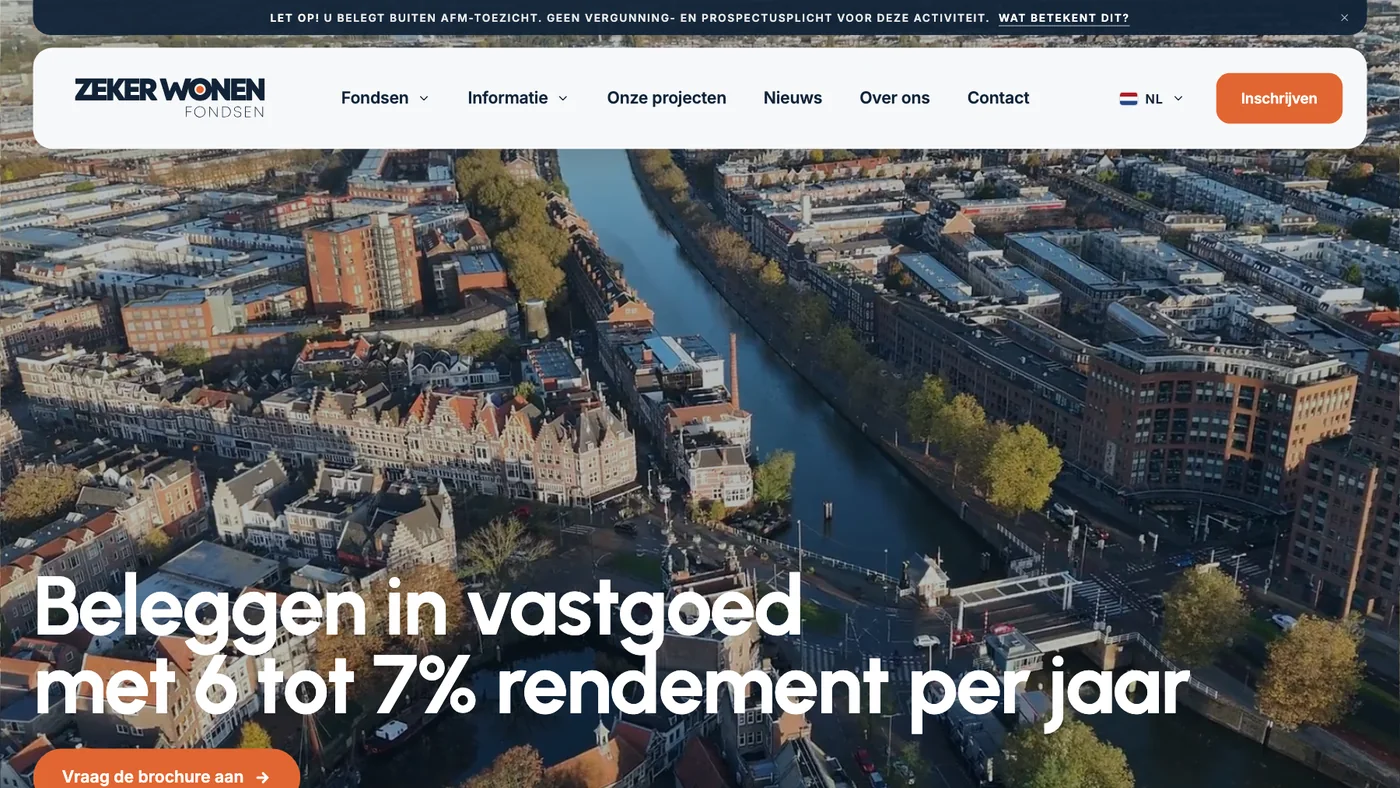
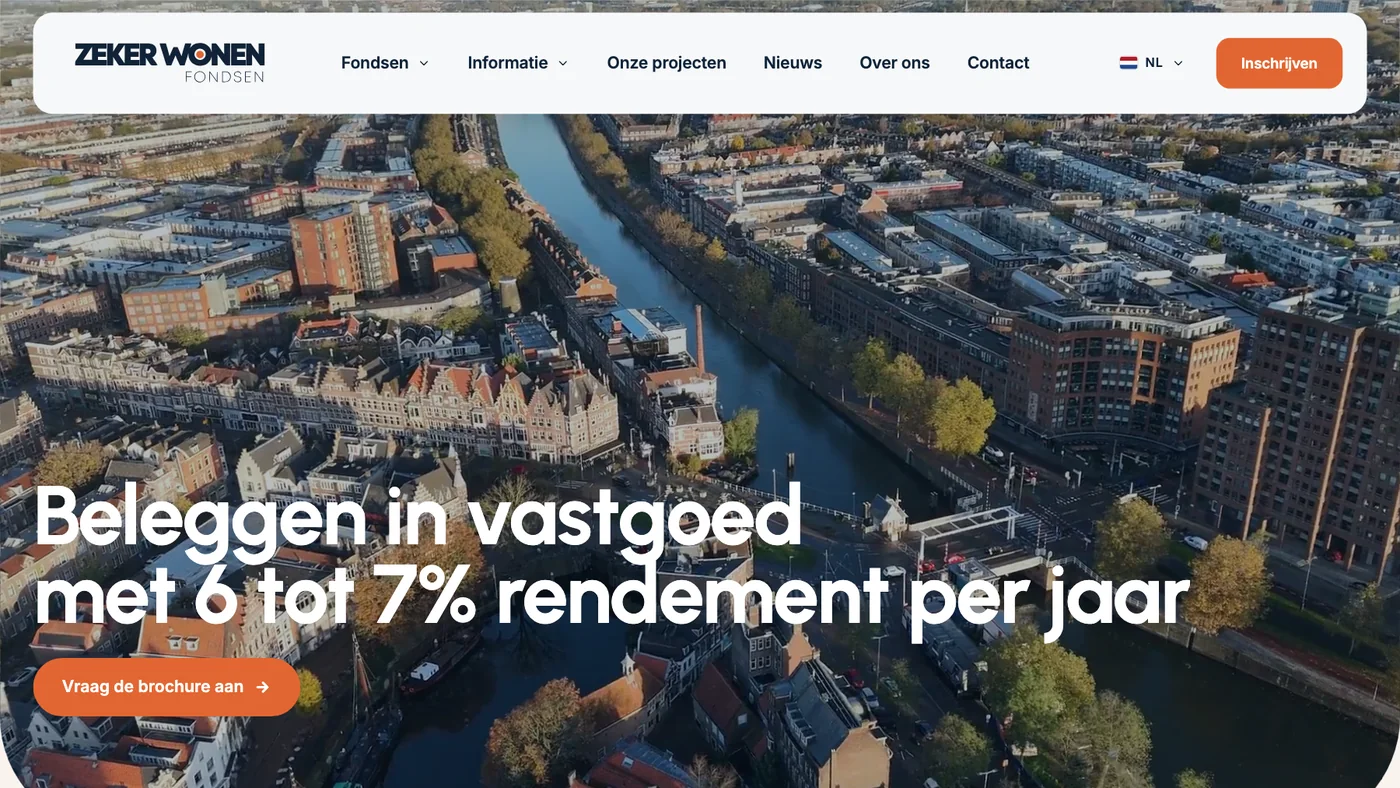
fix: CS-pijl in de stijl van hun site en Zeker Wonen-beeld netter

diff --git a/css/styles.css b/css/styles.css
@@ -608,11 +608,10 @@ html.reveal-fallback .fade-in-up { opacity: 1 !important; transform: none !impor
 .hero__actie .hero__btn { margin: 0; }
 .hero__dienst { font-family: var(--font-display); font-size: 18px; line-height: 1; color: rgba(255,255,255,0.88); }
 
-/* Portfolio: de pijl uit de CS Cleaning-hero komt over de rand van het beeld heen */
-.pcard__pijl { position: absolute; left: 50%; bottom: 0; z-index: 2; width: 46px; height: 46px; border-radius: 999px; display: grid; place-items: center; color: var(--white);
-  background: linear-gradient(160deg, #34b77e 0%, #1c9e67 52%, #0f7f4f 100%); border: 3px solid var(--white);
-  box-shadow: inset 0 1px 1px rgba(255,255,255,0.45), inset 0 -2px 4px rgba(6,70,44,0.28), 0 2px 4px rgba(4,14,31,0.16), 0 10px 22px rgba(8,80,50,0.26);
-  transform: translate(-50%, 50%); transition: transform 0.3s ease, box-shadow 0.3s ease; }
-.pcard__pijl svg { width: 19px; height: 19px; filter: drop-shadow(0 1px 1px rgba(6,70,44,0.35)); }
-.pcard:hover .pcard__pijl { transform: translate(-50%, calc(50% + 3px)); box-shadow: inset 0 1px 1px rgba(255,255,255,0.45), inset 0 -2px 4px rgba(6,70,44,0.28), 0 3px 6px rgba(4,14,31,0.18), 0 14px 26px rgba(8,80,50,0.3); }
+/* Portfolio: de pijl uit de CS Cleaning-hero, zelfde knop als op hun site, komt over de rand van het beeld heen */
+.pcard__pijl { position: absolute; left: 50%; bottom: 0; z-index: 2; width: 52px; height: 52px; border-radius: 50%; display: grid; place-items: center; color: var(--white);
+  background: radial-gradient(circle, #1f9d68 0, #1f9d68 58%, #096a41 60%); outline: 3px solid var(--white);
+  box-shadow: 0 8px 18px rgba(4,14,31,0.16); transform: translate(-50%, 50%); transition: transform 0.3s ease, box-shadow 0.3s ease; }
+.pcard__pijl svg { width: 18px; height: 18px; }
+.pcard:hover .pcard__pijl { transform: translate(-50%, calc(50% + 3px)); box-shadow: 0 12px 22px rgba(4,14,31,0.2); }
 @media (prefers-reduced-motion: reduce) { .pcard__pijl { transition: none; } }

diff --git a/index.html b/index.html
@@ -25,7 +25,7 @@
   <link rel="preconnect" href="https://fonts.gstatic.com" crossorigin>
   <link rel="preload" href="https://fonts.googleapis.com/css2?family=Inter:wght@400;500;600;700&family=Newsreader:ital,opsz,wght@0,6..72,300;0,6..72,400;0,6..72,500;1,6..72,300;1,6..72,400&display=swap" as="style" onload="this.onload=null;this.rel='stylesheet'">
   <noscript><link rel="stylesheet" href="https://fonts.googleapis.com/css2?family=Inter:wght@400;500;600;700&family=Newsreader:ital,opsz,wght@0,6..72,300;0,6..72,400;0,6..72,500;1,6..72,300;1,6..72,400&display=swap"></noscript>
-  <link rel="stylesheet" href="css/styles.css?v=93240d05">
+  <link rel="stylesheet" href="css/styles.css?v=ff84a714">
   <style>
     /* ---- WAT WIJ BOUWEN (cambio-style split: intro + feature grid) ---- */
     .build { display: grid; grid-template-columns: 0.82fr 1.18fr; gap: clamp(40px, 5vw, 96px); align-items: start; }
@@ -565,7 +565,7 @@
         <article class="pcard fade-in-up" data-delay="1">
           <div class="pcard__media">
             <img src="assets/portfolio-cs-cleaning.webp" alt="Website van CS Cleaning Service: schoonmaakbedrijf in Rotterdam" style="width:100%;aspect-ratio:16/9;object-fit:cover;object-position:top;display:block;" />
-            <span class="pcard__pijl" aria-hidden="true"><svg viewBox="0 0 24 24" fill="none" stroke="currentColor" stroke-width="2.4" stroke-linecap="round" stroke-linejoin="round"><line x1="12" y1="5" x2="12" y2="19"/><polyline points="6 13 12 19 18 13"/></svg></span>
+            <span class="pcard__pijl" aria-hidden="true"><svg viewBox="0 0 16 16" fill="none" aria-hidden="true"><path d="M8 2.5v11M3.5 9l4.5 4.5L12.5 9" stroke="currentColor" stroke-width="1.4" stroke-linecap="round" stroke-linejoin="round"/></svg></span>
           </div>
           <div class="pcard__body">
             <h3 class="pcard__title">CS Cleaning</h3>

diff --git a/diensten.html b/diensten.html
@@ -24,7 +24,7 @@
   <link rel="preconnect" href="https://fonts.gstatic.com" crossorigin>
   <link rel="preload" href="https://fonts.googleapis.com/css2?family=Inter:wght@400;500;600;700&family=Newsreader:ital,opsz,wght@0,6..72,300;0,6..72,400;0,6..72,500;1,6..72,300;1,6..72,400&display=swap" as="style" onload="this.onload=null;this.rel='stylesheet'">
   <noscript><link rel="stylesheet" href="https://fonts.googleapis.com/css2?family=Inter:wght@400;500;600;700&family=Newsreader:ital,opsz,wght@0,6..72,300;0,6..72,400;0,6..72,500;1,6..72,300;1,6..72,400&display=swap"></noscript>
-  <link rel="stylesheet" href="css/styles.css?v=93240d05">
+  <link rel="stylesheet" href="css/styles.css?v=ff84a714">
   <style>
     /* ============================================================
        DIENSTEN — cambio.ai platform-style layout (Talynd tokens)

diff --git a/over-ons.html b/over-ons.html
@@ -24,7 +24,7 @@
   <link rel="preconnect" href="https://fonts.gstatic.com" crossorigin>
   <link rel="preload" href="https://fonts.googleapis.com/css2?family=Inter:wght@400;500;600;700&family=Newsreader:ital,opsz,wght@0,6..72,300;0,6..72,400;0,6..72,500;1,6..72,300;1,6..72,400&display=swap" as="style" onload="this.onload=null;this.rel='stylesheet'">
   <noscript><link rel="stylesheet" href="https://fonts.googleapis.com/css2?family=Inter:wght@400;500;600;700&family=Newsreader:ital,opsz,wght@0,6..72,300;0,6..72,400;0,6..72,500;1,6..72,300;1,6..72,400&display=swap"></noscript>
-  <link rel="stylesheet" href="css/styles.css?v=93240d05">
+  <link rel="stylesheet" href="css/styles.css?v=ff84a714">
   <style>
     /* ============================================================
        OVER ONS — Talynd (cambio company-page layout, our system)

diff --git a/contact.html b/contact.html
@@ -24,7 +24,7 @@
   <link rel="preconnect" href="https://fonts.gstatic.com" crossorigin>
   <link rel="preload" href="https://fonts.googleapis.com/css2?family=Inter:wght@400;500;600;700&family=Newsreader:ital,opsz,wght@0,6..72,300;0,6..72,400;0,6..72,500;1,6..72,300;1,6..72,400&display=swap" as="style" onload="this.onload=null;this.rel='stylesheet'">
   <noscript><link rel="stylesheet" href="https://fonts.googleapis.com/css2?family=Inter:wght@400;500;600;700&family=Newsreader:ital,opsz,wght@0,6..72,300;0,6..72,400;0,6..72,500;1,6..72,300;1,6..72,400&display=swap"></noscript>
-  <link rel="stylesheet" href="css/styles.css?v=93240d05">
+  <link rel="stylesheet" href="css/styles.css?v=ff84a714">
   <style>
     /* ============================================================
        CONTACT — Talynd (cambio careers: white hero + one photo)

diff --git a/portfolio.html b/portfolio.html
@@ -24,7 +24,7 @@
   <link rel="preconnect" href="https://fonts.gstatic.com" crossorigin>
   <link rel="preload" href="https://fonts.googleapis.com/css2?family=Inter:wght@400;500;600;700&family=Newsreader:ital,opsz,wght@0,6..72,300;0,6..72,400;0,6..72,500;1,6..72,300;1,6..72,400&display=swap" as="style" onload="this.onload=null;this.rel='stylesheet'">
   <noscript><link rel="stylesheet" href="https://fonts.googleapis.com/css2?family=Inter:wght@400;500;600;700&family=Newsreader:ital,opsz,wght@0,6..72,300;0,6..72,400;0,6..72,500;1,6..72,300;1,6..72,400&display=swap"></noscript>
-  <link rel="stylesheet" href="css/styles.css?v=93240d05">
+  <link rel="stylesheet" href="css/styles.css?v=ff84a714">
   <style>
     /* ============================================================
        PORTFOLIO — Talynd (matches homepage + diensten system)

diff --git a/beveiliging.html b/beveiliging.html
@@ -24,7 +24,7 @@
   <link rel="preconnect" href="https://fonts.gstatic.com" crossorigin>
   <link rel="preload" href="https://fonts.googleapis.com/css2?family=Inter:wght@400;500;600;700&family=Newsreader:ital,opsz,wght@0,6..72,300;0,6..72,400;0,6..72,500;1,6..72,300;1,6..72,400&display=swap" as="style" onload="this.onload=null;this.rel='stylesheet'">
   <noscript><link rel="stylesheet" href="https://fonts.googleapis.com/css2?family=Inter:wght@400;500;600;700&family=Newsreader:ital,opsz,wght@0,6..72,300;0,6..72,400;0,6..72,500;1,6..72,300;1,6..72,400&display=swap"></noscript>
-  <link rel="stylesheet" href="css/styles.css?v=93240d05">
+  <link rel="stylesheet" href="css/styles.css?v=ff84a714">
   <!-- Vercel Web Analytics -->
   <script>
     window.va = window.va || function () { (window.vaq = window.vaq || []).push(arguments); };

diff --git a/privacybeleid.html b/privacybeleid.html
@@ -24,7 +24,7 @@
   <link rel="preconnect" href="https://fonts.gstatic.com" crossorigin>
   <link rel="preload" href="https://fonts.googleapis.com/css2?family=Inter:wght@400;500;600;700&family=Newsreader:ital,opsz,wght@0,6..72,300;0,6..72,400;0,6..72,500;1,6..72,300;1,6..72,400&display=swap" as="style" onload="this.onload=null;this.rel='stylesheet'">
   <noscript><link rel="stylesheet" href="https://fonts.googleapis.com/css2?family=Inter:wght@400;500;600;700&family=Newsreader:ital,opsz,wght@0,6..72,300;0,6..72,400;0,6..72,500;1,6..72,300;1,6..72,400&display=swap"></noscript>
-  <link rel="stylesheet" href="css/styles.css?v=93240d05">
+  <link rel="stylesheet" href="css/styles.css?v=ff84a714">
   <!-- Vercel Web Analytics -->
   <script>
     window.va = window.va || function () { (window.vaq = window.vaq || []).push(arguments); };

diff --git a/voorwaarden.html b/voorwaarden.html
@@ -24,7 +24,7 @@
   <link rel="preconnect" href="https://fonts.gstatic.com" crossorigin>
   <link rel="preload" href="https://fonts.googleapis.com/css2?family=Inter:wght@400;500;600;700&family=Newsreader:ital,opsz,wght@0,6..72,300;0,6..72,400;0,6..72,500;1,6..72,300;1,6..72,400&display=swap" as="style" onload="this.onload=null;this.rel='stylesheet'">
   <noscript><link rel="stylesheet" href="https://fonts.googleapis.com/css2?family=Inter:wght@400;500;600;700&family=Newsreader:ital,opsz,wght@0,6..72,300;0,6..72,400;0,6..72,500;1,6..72,300;1,6..72,400&display=swap"></noscript>
-  <link rel="stylesheet" href="css/styles.css?v=93240d05">
+  <link rel="stylesheet" href="css/styles.css?v=ff84a714">
   <!-- Vercel Web Analytics -->
   <script>
     window.va = window.va || function () { (window.vaq = window.vaq || []).push(arguments); };

diff --git a/404.html b/404.html
@@ -15,7 +15,7 @@
   <link rel="preconnect" href="https://fonts.gstatic.com" crossorigin>
   <link rel="preload" href="https://fonts.googleapis.com/css2?family=Inter:wght@400;500;600;700&family=Newsreader:ital,opsz,wght@0,6..72,300;0,6..72,400;0,6..72,500;1,6..72,300;1,6..72,400&display=swap" as="style" onload="this.onload=null;this.rel='stylesheet'">
   <noscript><link rel="stylesheet" href="https://fonts.googleapis.com/css2?family=Inter:wght@400;500;600;700&family=Newsreader:ital,opsz,wght@0,6..72,300;0,6..72,400;0,6..72,500;1,6..72,300;1,6..72,400&display=swap"></noscript>
-  <link rel="stylesheet" href="css/styles.css?v=93240d05">
+  <link rel="stylesheet" href="css/styles.css?v=ff84a714">
   <style>
     .e404 {
       min-height: 100vh;
